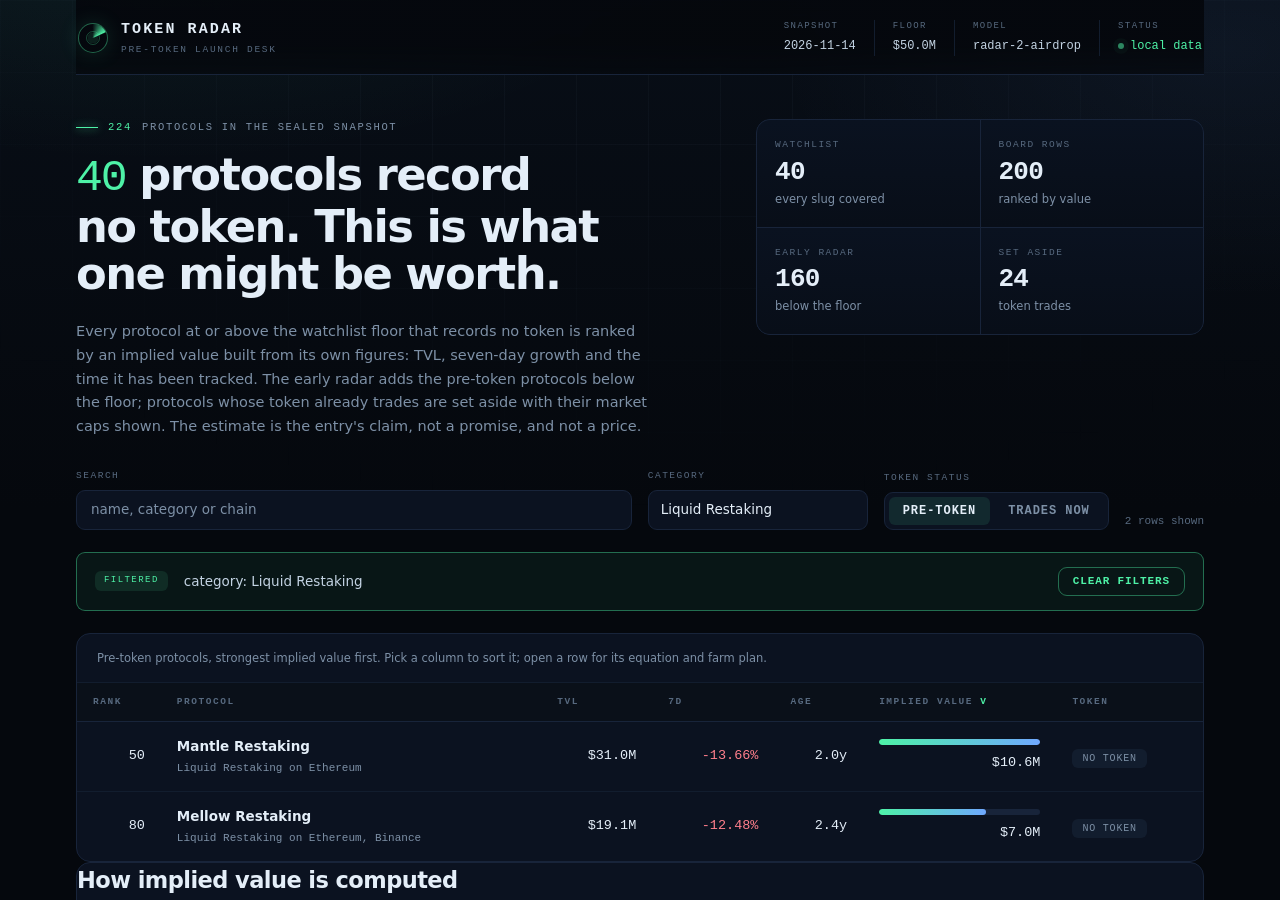
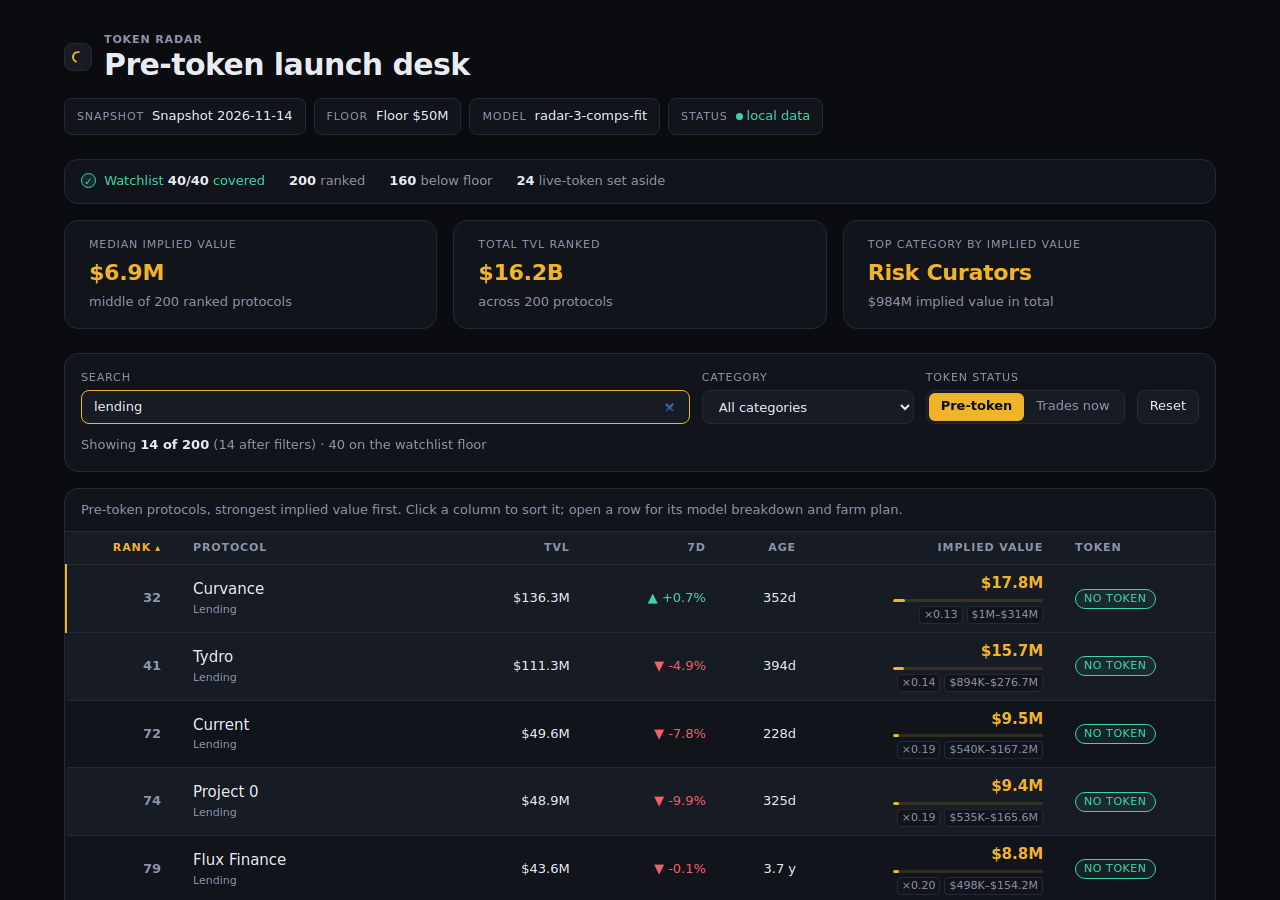
v7: render the three screenshots from this build, not from v5
main.ts copies screenshots/ into the output but never drew them, so the
board, detail and filtered images still showed radar-2-airdrop at
$652.4M while board.json said radar-3-comps-fit at $234.4M. The judge
reads the two side by side; criterion one is that they agree.

Rendered with shot7.cjs against the built page (file://, 1280x900):
board at rest, the Steakhouse Financial detail panel with its build-up
and band, and the board filtered to 'lending' (14 of 200).

Also let the farm-plan time cell wrap: '15 minutes to set up' was
clipped at the panel edge.

diff --git a/dashboard/app.css b/dashboard/app.css
@@ -658,7 +658,8 @@ details summary::-webkit-details-marker { display: none; }
 .farm-table tr:last-child td { border-bottom: 0; }
 .farm-n { color: var(--amber); font-weight: 600; width: 20px; }
 .farm-step { color: var(--text); }
-.farm-cost, .farm-time { color: var(--text-weak); white-space: nowrap; }
+.farm-cost { color: var(--text-weak); white-space: nowrap; }
+.farm-time { color: var(--text-weak); }
 
 /* ---------- print ---------- */
 
